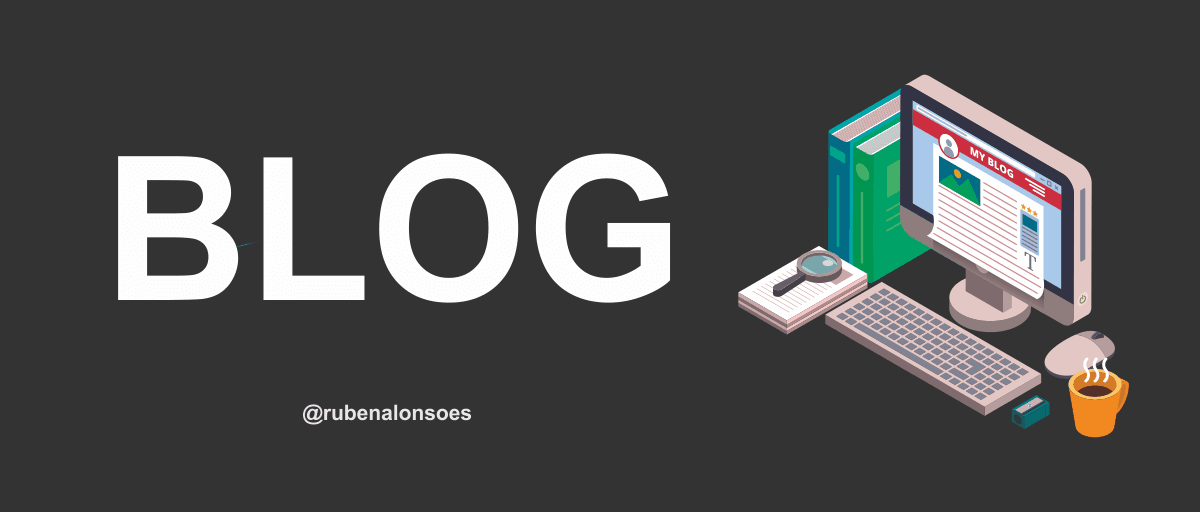
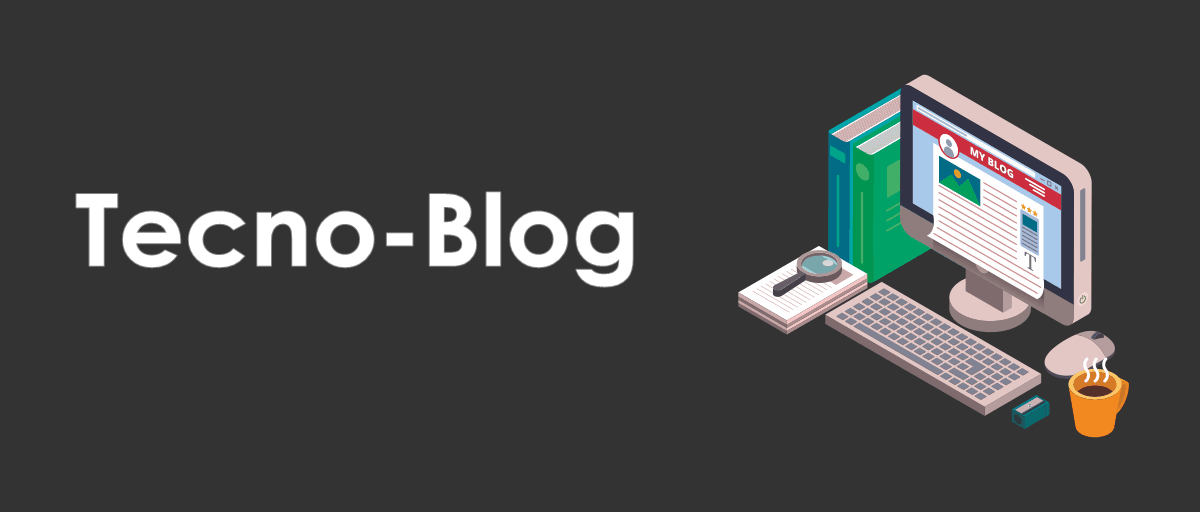
actualizacion

Changed region(s): [[0.0617, 0.2812, 0.5858, 0.5938], [0.2467, 0.7812, 0.4008, 0.8438]]

diff --git a/index.html b/index.html
@@ -1,28 +1,32 @@
 <!DOCTYPE html>
 <html lang="en">
+
 <head>
     <meta charset="UTF-8">
     <meta name="viewport" content="width=device-width, initial-scale=1.0">
     <link rel="stylesheet" href="librerias/boostrap/css/bootstrap.min.css">
     <link rel="stylesheet" href="estilos/estilos.css">
-    <title>Tecno-Boost</title> 
+    <title>Tecno-Boost</title>
 </head>
+
 <body>
     <!--menu-->
     <div class="container-fluid bg-dark fixed-top">
         <nav class="navbar navbar-expand-lg navbar-dark bg-dark text-center">
             <a class="navbar-brand" href="index.html">Tecno
-                <img src="icons/bootstrap.svg" width="30" height="30" class="d-inline-block align-top" alt="" loading="lazy">
+                <img src="icons/bootstrap.svg" width="30" height="30" class="d-inline-block align-top" alt=""
+                    loading="lazy">
                 Boost
             </a>
             <button class="navbar-toggler" type="button" data-toggle="collapse" data-target="#navbarSupportedContent"
                 aria-controls="navbarSupportedContent" aria-expanded="false" aria-label="Toggle navigation">
                 <span class="navbar-toggler-icon"></span>
             </button>
-    
+
             <div class="collapse navbar-collapse" id="navbarSupportedContent">
                 <div class="navbar-nav ml-auto">
-                    <a class="nav-item nav-link active" href="index.html">Inicio<span class="sr-only">(current)</span></a>
+                    <a class="nav-item nav-link active" href="index.html">Inicio<span
+                            class="sr-only">(current)</span></a>
                     <a class="nav-item nav-link" href="#">Conocenos</a>
                     <div><a href="#" class="btn btn-danger">Contactanos</a></div>
                 </div>
@@ -36,25 +40,25 @@
         <div class="text-center text-white">
             <h3 class="d-none d-md-block">¿Internet - Desarrollo web?</h3>
             <h1 class="display-4">Tecno-Boost</h1>
-            <p class="lead">¡Aprende un poco mas sobre el desarrollo web!</p>            
-        </div>       
+            <p class="lead">¡Aprende un poco mas sobre el desarrollo web!</p>
+        </div>
         <form action="" class="form-inline d-flex justify-content-center align-items-center">
             <div class="form-group mr-2 d-flex flex-md-col">
-                <input type="email" class="form-control" placeholder="ejemplo@email.com">                                
+                <input type="email" class="form-control" placeholder="ejemplo@email.com">
             </div>
-            <div class="form-group d-flex flex-md-col"> 
-                <input type="submit" class="btn btn-danger" value="Enviar">               
+            <div class="form-group d-flex flex-md-col">
+                <input type="submit" class="btn btn-danger" value="Enviar">
             </div>
             <div class="w-100 mb-2"></div>
             <div class="form-group text-white">
-            <p class="d-none d-md-flex">Inscribete para estar al dia con las nuevas tecnologias</p>
-            <p class="d-block d-md-none">Inscribete y actualizate</p>            
+                <p class="d-none d-md-flex">Inscribete para estar al dia con las nuevas tecnologias</p>
+                <p class="d-block d-md-none">Inscribete y actualizate</p>
             </div>
         </form>
     </div>
     <!--fin-banner-->
     <!--main-->
-    <div class="container-fluid mb-5"> 
+    <div class="container-fluid mb-5">
         <h3>Tecno-Blog</h3>
         <p class="lead">Este sitio esta enfocado en las tecnologias sobre desarrollo web y algo mas</p>
         <hr class="">
@@ -62,9 +66,9 @@
             <!--Articulos-->
             <div class="col-12 col-lg-9">
                 <!--1-Articulo-->
-                <div class="row mb-5">                    
+                <div class="row mb-5">
                     <div class="col-3">
-                        <img src="img/blog3.png" alt="mi_blog" class="img-fluid mb-1">
+                        <img src="./img/blog3.jpg" alt="mi_blog" class="img-fluid mb-1">
                         <p>19/05/2020</p>
                         <hr>
                     </div>
@@ -72,104 +76,74 @@
                         <a href="paginas/info_blog.html">
                             <h4>¿El porque de este blog?</h4>
                         </a>
-                        <p>Este blog es creado inicialmente con motivos académicos 
+                        <p>Este blog es creado inicialmente con motivos académicos
                             pero también informativos.
-                            Queremos brindar un poco de ayuda a aquellas personas 
-                            que están empezando en el mundo del desarrollo web y de 
+                            Queremos brindar un poco de ayuda a aquellas personas
+                            que están empezando en el mundo del desarrollo web y de
                             la programación en general....</p>
                         <a href="paginas/info_blog.html" class="btn btn-outline-warning btn-sm">Leer mas...</a>
-                        </div>
-                        </div>
-                        <!--fin-1-Articulo-->
-                        <!--1-Articulo-->
-                        <div class="row mb-5">
-                            <div class="col-3">
-                                <img src="img/blog2.png" alt="mi_blog" class="img-fluid">
-                                <p>19/05/2020</p>
-                                <hr>
-                            </div>
-                            <div class="col-9">
-                                <a href="#">
-                                    <h4>Quien soy y que es este blog</h4>
-                                </a>
-                                <p>Lorem ipsum dolor sit amet, consectetur
-                                    adipisicing elit. Porro distinctio similique architecto
-                                    corrupti ipsam reprehenderit exercitationem, cupiditate
-                                    maxime dolorum? Ab reprehenderit, ut repellat temporibus
-                                    asperiores fuga eos ipsam corrupti velit.</p>
-                                <a href="#" class="btn btn-outline-warning btn-sm">Leer mas...</a>
-                            </div>
-                        </div>
-                        <!--fin-1-Articulo-->
-                        <!--1-Articulo-->
-                        <div class="row mb-5">
-                            <div class="col-3">
-                                <img src="img/blog2.png" alt="mi_blog" class="img-fluid">
-                                <p>Agregar fecha de creacion</p>
-                                <hr>
-                            </div>
-                            <div class="col-9">
-                                <a href="#">
-                                    <h4>Quien soy y que es este blog</h4>
-                                </a>
-                                <p>Lorem ipsum dolor sit amet, consectetur
-                                    adipisicing elit. Porro distinctio similique architecto
-                                    corrupti ipsam reprehenderit exercitationem, cupiditate
-                                    maxime dolorum? Ab reprehenderit, ut repellat temporibus
-                                    asperiores fuga eos ipsam corrupti velit.</p>
-                                <a href="#" class="btn btn-outline-warning btn-sm">Leer mas...</a>
-                            </div>
-                        </div>
-                        <!--fin-1-Articulo-->
-                <!--1-Articulo-->
-                <div class="row mb-5">                    
-                    <div class="col-3">
-                        <img src="img/blog2.png" alt="mi_blog" class="img-fluid">
-                        <p>Agregar fecha de creacion</p>
-                        <hr>
-                    </div>
-                    <div class="col-9">
-                        <a href="#">
-                            <h3>Quien soy y que es este blog</h3>
-                        </a>
-                        <p>Lorem ipsum dolor sit amet, consectetur
-                            adipisicing elit. Porro distinctio similique architecto
-                            corrupti ipsam reprehenderit exercitationem, cupiditate
-                            maxime dolorum? Ab reprehenderit, ut repellat temporibus
-                            asperiores fuga eos ipsam corrupti velit.</p>
-                        <a href="#" class="btn btn-outline-warning btn-sm">Leer mas...</a>
                     </div>
                 </div>
                 <!--fin-1-Articulo-->
                 <!--1-Articulo-->
-                <div class="row mb-5">                    
+                <div class="row mb-5">
                     <div class="col-3">
-                        <img src="img/blog2.png" alt="mi_blog" class="img-fluid">
-                        <p>Agregar fecha de creacion</p>
+                        <img src="./img/lenguajes.jpg" alt="" class="img-fluid">
+                        <p>19/05/2020</p>
                         <hr>
                     </div>
                     <div class="col-9">
                         <a href="#">
-                            <h3>Quien soy y que es este blog</h3>
+                            <h4>Lenguajes más demandados para este 2020</h4>
                         </a>
-                        <p>Lorem ipsum dolor sit amet, consectetur
-                            adipisicing elit. Porro distinctio similique architecto
-                            corrupti ipsam reprehenderit exercitationem, cupiditate
-                            maxime dolorum? Ab reprehenderit, ut repellat temporibus
-                            asperiores fuga eos ipsam corrupti velit.</p>
+                        <p>Actualmente estamos viviendo a nivel mundial transformación
+                            digital, aunque es una frase de moda, refleja una verdad
+                            crítica: cada empresa es ahora una empresa de tecnología.
+                            Ya sea que la compañía sea Bank of America, Alaska Airlines,
+                            Sainsbury's o Tesla, la inversión en el mejor talento de
+                            ingeniería de software no es una ambición futura, es una
+                            cuestión de...
+                        </p>
                         <a href="#" class="btn btn-outline-warning btn-sm">Leer mas...</a>
                     </div>
                 </div>
                 <!--fin-1-Articulo-->
-            </div>            
+                 <!--1-Articulo-->
+                 <div class="row mb-5">
+                    <div class="col-3">
+                        <img src="./img/boostrap.jpg" alt="" class="img-fluid">
+                        <p>19/05/2020</p>
+                        <hr>
+                    </div>
+                    <div class="col-9">
+                        <a href="#">
+                            <h4>¿Que es Boostrap?</h4>
+                        </a>
+                        <p>A lo largo de los últimos años hemos visto un gran cambio en 
+                            la web cada vez más y más dispositivos tienen la posibilidad 
+                            de tener un navegador, lo que vuelve más complejo el hecho de 
+                            crear un sitio que se vea bien en cualquier pantalla.
+                            Podemos decir que en el mundo de la informática cada problema 
+                            tiene una solución si se puede programar, para este caso en 
+                            particular existen diversas librerías las cuales nos facilitan 
+                            el crear un sitio totalmente responsive, cuando hablamos de 
+                            responsive ….
+                            </p>
+                        <a href="#" class="btn btn-outline-warning btn-sm">Leer mas...</a>
+                    </div>
+                </div>
+                <!--fin-1-Articulo-->
+
+            </div>
             <!--Aside-bar-->
-            <div class="col-12 col-lg-3">
+            <div class="d-none d-lg-block col-lg-3">
                 <!--cards-->
                 <div class="card text-white bg-primary mb-3" style="max-width: 18rem;">
                     <div class="card-header">Header</div>
                     <div class="card-body">
                         <h5 class="card-title">Primary card title</h5>
-                        <p class="card-text">Some quick example text to build on the card title and make up the bulk of the card's
+                        <p class="card-text">Some quick example text to build on the card title and make up the bulk of
+                            the card's
                             content.</p>
                     </div>
                 </div>
@@ -177,34 +151,20 @@
                     <div class="card-header">Header</div>
                     <div class="card-body">
                         <h5 class="card-title">Secondary card title</h5>
-                        <p class="card-text">Some quick example text to build on the card title and make up the bulk of the card's
+                        <p class="card-text">Some quick example text to build on the card title and make up the bulk of
+                            the card's
                             content.</p>
                     </div>
                 </div>
-                <div class="card text-white bg-success mb-3" style="max-width: 18rem;">
+                <div class="card text-white bg-info mb-3" style="max-width: 18rem;">
                     <div class="card-header">Header</div>
                     <div class="card-body">
-                        <h5 class="card-title">Success card title</h5>
-                        <p class="card-text">Some quick example text to build on the card title and make up the bulk of the card's
+                        <h5 class="card-title">Secondary card title</h5>
+                        <p class="card-text">Some quick example text to build on the card title and make up the bulk of
+                            the card's
                             content.</p>
                     </div>
-                </div>
-                <div class="card text-white bg-danger mb-3" style="max-width: 18rem;">
-                    <div class="card-header">Header</div>
-                    <div class="card-body">
-                        <h5 class="card-title">Danger card title</h5>
-                        <p class="card-text">Some quick example text to build on the card title and make up the bulk of the card's
-                            content.</p>
-                    </div>
-                </div>
-                <div class="card text-white bg-warning mb-3" style="max-width: 18rem;">
-                    <div class="card-header">Header</div>
-                    <div class="card-body">
-                        <h5 class="card-title">Warning card title</h5>
-                        <p class="card-text">Some quick example text to build on the card title and make up the bulk of the card's
-                            content.</p>
-                    </div>
-                </div>                                           
+                </div>                           
                 <!--fin-cards-->
             </div>
             <!--fin-Aside-bar-->
@@ -226,7 +186,7 @@
             </div>
         </div>
         <!--fni-barra de numeros-->
-        </div>
+    </div>
     </div>
     <!--fin-main-->
     <footer class="container-fluid bg-dark text-white py-2 text-center">
@@ -235,10 +195,11 @@
     </footer>
 
 
-    
+
 </body>
 <script src="librerias/boostrap/js/jquery-3.5.1.slim.min.js"></script>
 <script src="librerias/boostrap/js/bootstrap.bundle.min.js"></script>
 <script src="librerias/boostrap/js/bootstrap.min.js"></script>
 <script src="librerias/boostrap/js/popper.min.js"></script>
+
 </html>

diff --git a/estilos/estilos.css b/estilos/estilos.css
@@ -6,10 +6,10 @@
 }
 
 .banner2{
-    background: url("../img/blog2.png");
+    background: url("../img/Tecno-blog.png");
     background-size: cover;
     background-position: center;
-    height:100vh;
+    height:400px;
 }
 
 
